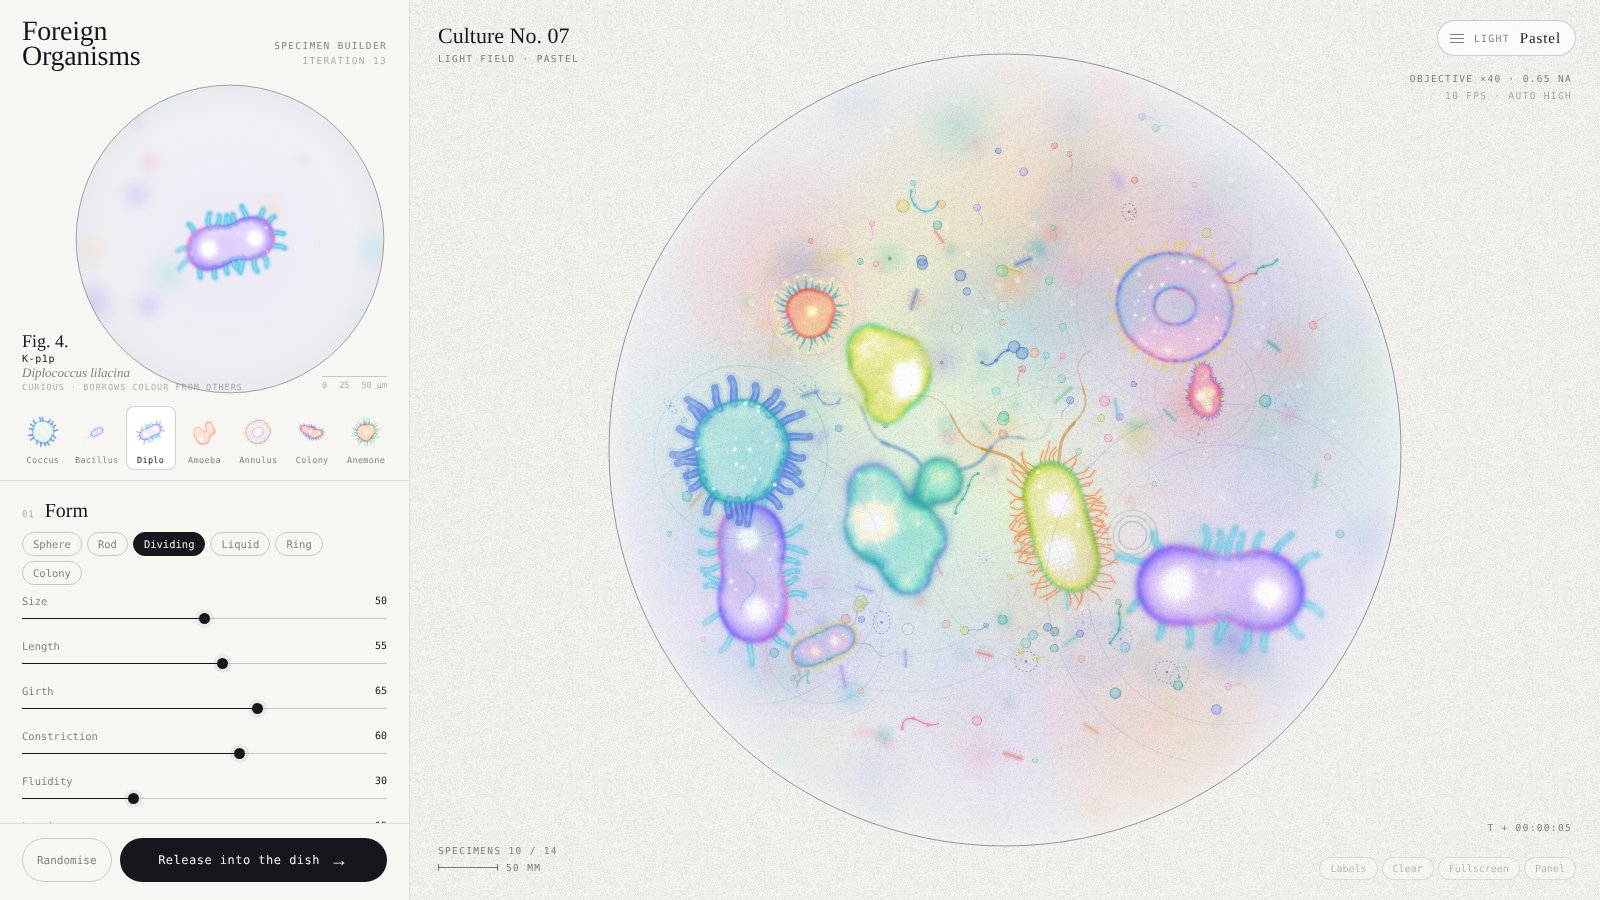
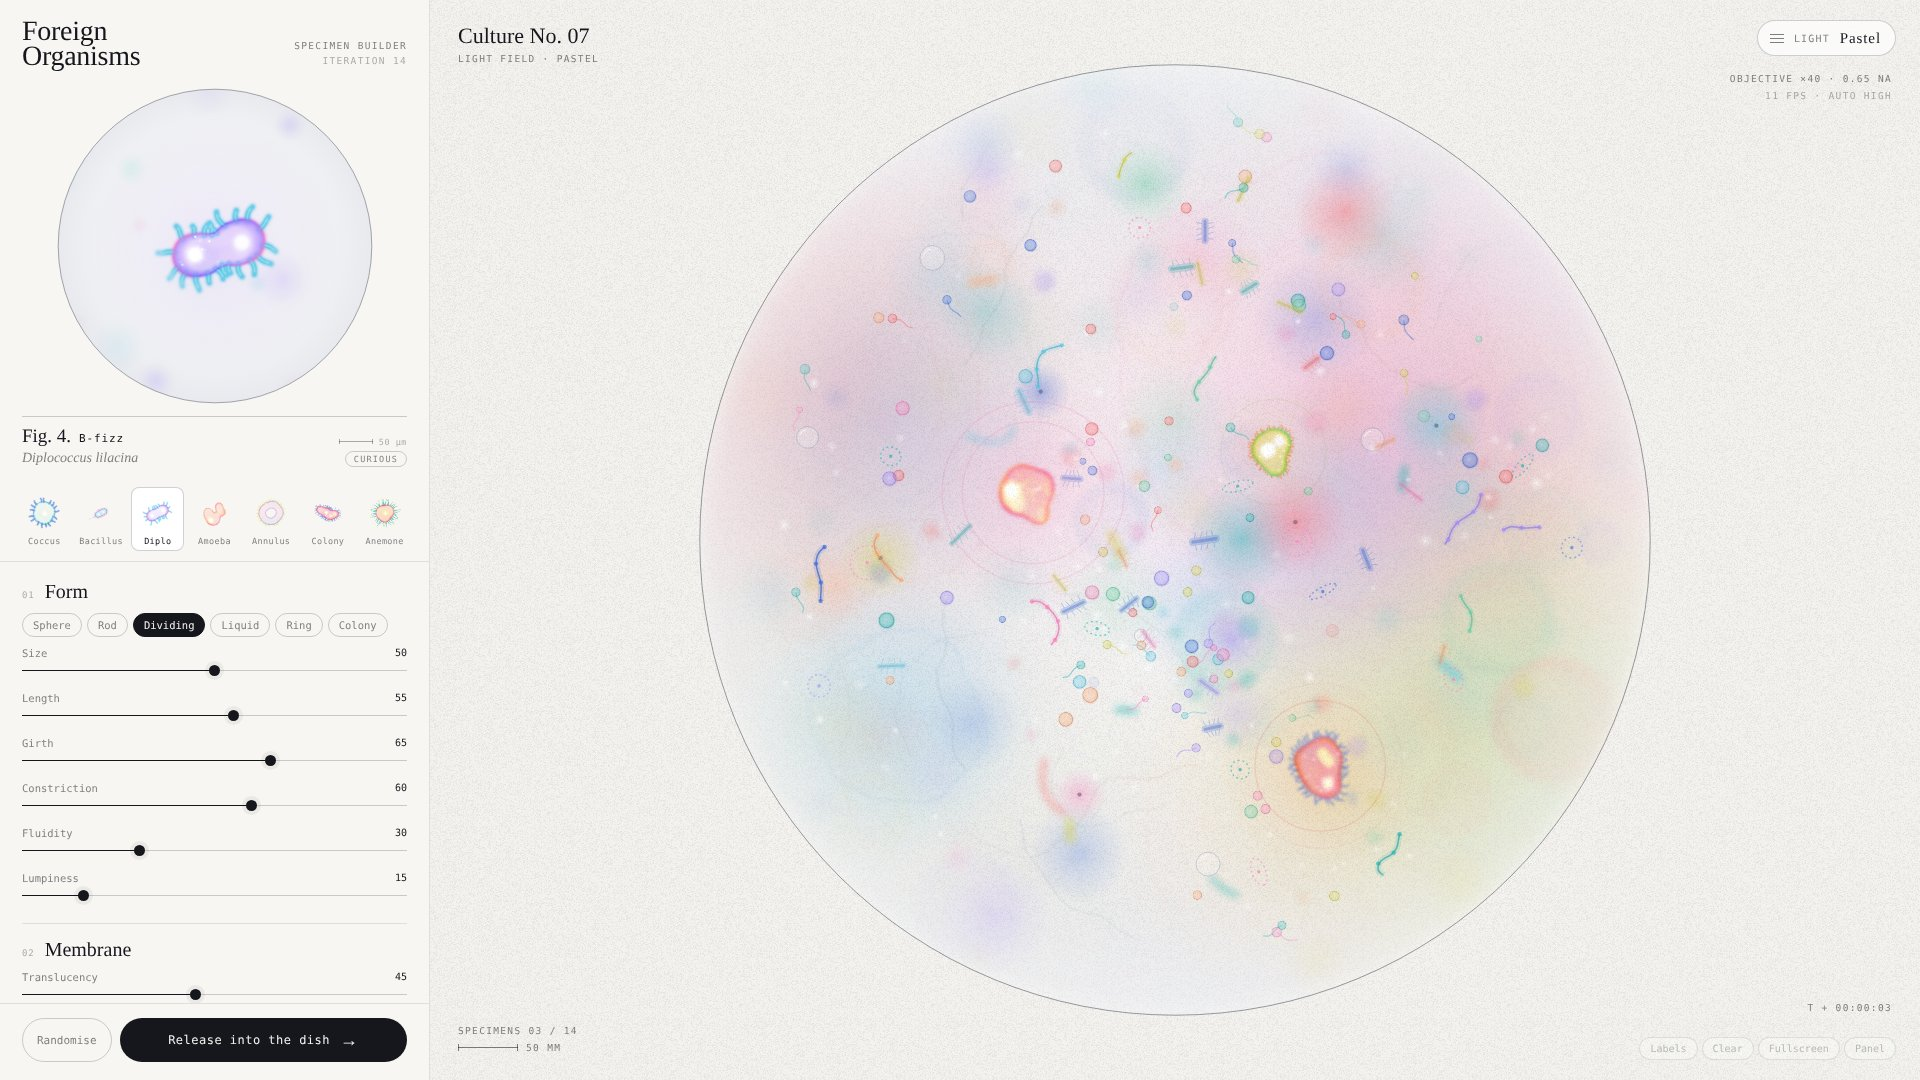
ADD

diff --git a/index.html b/index.html
@@ -19,28 +19,36 @@
   --mono: 'JetBrains Mono', ui-monospace, 'Consolas', monospace;
 }
 * { box-sizing: border-box; }
-html, body { margin: 0; height: 100%; background: var(--paper); color: var(--ink); font-family: var(--mono); overflow: hidden; }
+html, body { margin: 0; height: 100%; -webkit-text-size-adjust: 100%; text-size-adjust: 100%; background: var(--paper); color: var(--ink); font-family: var(--mono); overflow: hidden; }
 button { font: inherit; color: inherit; cursor: pointer; }
 
-.app { display: flex; height: 100vh; width: 100vw; }
+.app { display: flex; height: 100vh; height: 100dvh; width: 100%; }
+#creator, .dish-wrap { min-width: 0; min-height: 0; }
 
 /* ---------- builder ---------- */
-#creator { width: 410px; flex: none; height: 100%; display: flex; flex-direction: column; background: var(--panel); border-right: 1px solid var(--line); transition: margin-left .5s ease; }
-body.no-panel #creator { margin-left: -410px; }
+#creator { --pw: clamp(340px, 27vw, 430px); width: var(--pw); flex: none; height: 100%; display: flex; flex-direction: column; background: var(--panel); border-right: 1px solid var(--line); transition: margin-left .5s ease; }
+body.no-panel #creator { margin-left: calc(-1 * var(--pw)); }
 .cr-head { display: flex; justify-content: space-between; align-items: flex-end; padding: 18px 22px 10px; }
 .cr-brand { font-family: var(--serif); font-size: 28px; line-height: .9; letter-spacing: -.01em; }
 .cr-meta { font-size: 9.5px; text-transform: uppercase; letter-spacing: .14em; color: var(--dim); text-align: right; line-height: 1.6; }
 .cr-meta span { color: var(--faint); }
 
-.pv { position: relative; margin: 4px 22px 0; aspect-ratio: 1 / 0.86; display: flex; align-items: center; justify-content: flex-end; }
-.pv-canvas { height: 100%; aspect-ratio: 1; display: block; }
-.pv-label { position: absolute; left: 0; bottom: 4px; display: flex; flex-direction: column; gap: 1px; font-size: 10px; pointer-events: none; }
-.pv-label b { font-family: var(--serif); font-weight: 400; font-size: 18px; }
-.pv-label span { letter-spacing: .06em; }
-.pv-label em { font-family: var(--serif); font-size: 13px; color: var(--dim); }
-.pv-label small { font-size: 8.5px; letter-spacing: .12em; text-transform: uppercase; color: var(--faint); }
-.pv-ticks { position: absolute; right: 0; bottom: 6px; display: flex; gap: 12px; font-size: 8.5px; color: var(--faint); border-top: 1px solid var(--line2); padding-top: 3px; }
-
+.pv { margin: 2px 22px 0; }
+.pv-stage { display: flex; justify-content: center; padding: 6px 0 10px; }
+.pv-canvas { display: block; flex: none; }
+/* specimen plate: a quiet two-line label under the dish, never overlapping it */
+.pv-plate { border-top: 1px solid var(--line2); padding: 8px 0 10px; display: grid; gap: 3px; min-width: 0; }
+.pv-row { display: flex; align-items: baseline; gap: 8px; min-width: 0; }
+.pv-row > * { white-space: nowrap; overflow: hidden; text-overflow: ellipsis; }
+.pv-fig { font-family: var(--serif); font-weight: 400; font-size: 19px; flex: none; }
+.pv-name { font-size: 11px; letter-spacing: .08em; flex: 1; }
+.pv-ticks { flex: none; display: flex; align-items: center; gap: 6px; font-size: 8.5px; color: var(--faint); letter-spacing: .06em; }
+.pv-ticks i { display: inline-block; width: 34px; height: 1px; background: var(--faint); position: relative; }
+.pv-ticks i::before, .pv-ticks i::after { content: ''; position: absolute; top: -2px; width: 1px; height: 5px; background: var(--faint); }
+.pv-ticks i::after { right: 0; }
+.pv-sub { justify-content: space-between; }
+.pv-latin { font-family: var(--serif); font-size: 14px; color: var(--dim); }
+.pv-temper { flex: none; font-size: 8.5px; letter-spacing: .14em; text-transform: uppercase; color: var(--dim); border: 1px solid var(--line2); border-radius: 99px; padding: 2px 8px; }
 .cr-presets { display: grid; grid-template-columns: repeat(7, 1fr); gap: 4px; padding: 10px 18px; border-bottom: 1px solid var(--line); }
 .preset { background: none; border: 1px solid transparent; border-radius: 8px; padding: 2px 0 4px; display: flex; flex-direction: column; align-items: center; transition: border-color .2s, background .2s; }
 .preset canvas { width: 46px; height: 46px; }
@@ -49,7 +57,7 @@ body.no-panel #creator { margin-left: -410px; }
 .preset.on { border-color: var(--line2); background: #fff; }
 .preset.on span { color: var(--ink); }
 
-.cr-scroll { flex: 1; overflow-y: auto; padding: 4px 22px 18px; scrollbar-width: thin; scrollbar-color: #d4d3cf transparent; }
+.cr-scroll { flex: 1; min-height: 0; overflow-y: auto; padding: 4px 22px 18px; scrollbar-width: thin; scrollbar-color: #d4d3cf transparent; }
 .cr-sec { padding: 14px 0 6px; border-bottom: 1px solid var(--line); }
 .cr-sec:last-child { border-bottom: 0; }
 .sec-h { font-family: var(--serif); font-size: 20px; margin-bottom: 10px; display: flex; align-items: baseline; gap: 10px; }
@@ -96,9 +104,9 @@ body.no-panel #creator { margin-left: -410px; }
 
 /* ---------- dish ---------- */
 .dish-wrap { position: relative; flex: 1; height: 100%; background: var(--paper); }
-#dish { position: absolute; inset: 0; }
+#dish { position: absolute; top: 0; left: 0; right: 0; bottom: 0; }
 .dish-root { overflow: hidden; }
-.dish-root > * { position: absolute; inset: 0; width: 100%; height: 100%; }
+.dish-root > * { position: absolute; top: 0; left: 0; width: 100%; height: 100%; }
 .dish-scene { }
 .dish-grain { pointer-events: none; mix-blend-mode: multiply; opacity: .55; }
 .dish-root.night .dish-grain { mix-blend-mode: normal; opacity: .4; }
@@ -130,7 +138,7 @@ body.no-panel #creator { margin-left: -410px; }
 
 .dish-tools { position: absolute; right: 24px; bottom: 20px; display: flex; gap: 4px; opacity: .5; transition: opacity .3s; }
 .dish-tools:hover { opacity: 1; }
-.dish-tools button { background: rgba(255,255,255,.6); border: 1px solid var(--line2); border-radius: 99px; padding: 5px 10px; font-size: 10px; color: var(--dim); backdrop-filter: blur(6px); }
+.dish-tools button { background: rgba(255,255,255,.6); border: 1px solid var(--line2); border-radius: 99px; padding: 5px 10px; font-size: 10px; color: var(--dim); -webkit-backdrop-filter: blur(6px); backdrop-filter: blur(6px); }
 .dish-tools button:hover { color: var(--ink); }
 
 .fly { position: fixed; z-index: 50; pointer-events: none; transform-origin: 50% 50%; will-change: transform, opacity; }
@@ -138,7 +146,7 @@ body.no-panel #creator { margin-left: -410px; }
 
 /* light menu */
 .light-menu { position: absolute; right: 24px; top: 20px; z-index: 5; }
-.lm-btn { display: flex; align-items: center; gap: 10px; height: 36px; padding: 0 14px 0 12px; border-radius: 99px; border: 1px solid var(--line2); background: rgba(255,255,255,.7); backdrop-filter: blur(8px); font-size: 10px; letter-spacing: .12em; text-transform: uppercase; color: var(--dim); transition: border-color .2s, color .2s; }
+.lm-btn { display: flex; align-items: center; gap: 10px; height: 36px; padding: 0 14px 0 12px; border-radius: 99px; border: 1px solid var(--line2); background: rgba(255,255,255,.7); -webkit-backdrop-filter: blur(8px); backdrop-filter: blur(8px); font-size: 10px; letter-spacing: .12em; text-transform: uppercase; color: var(--dim); transition: border-color .2s, color .2s; }
 .lm-btn:hover, .light-menu.open .lm-btn { color: var(--ink); border-color: rgba(0,0,0,.4); }
 .lm-burger { display: grid; gap: 3px; width: 14px; }
 .lm-burger i { display: block; height: 1px; background: currentColor; transition: transform .3s, opacity .3s; }
@@ -146,7 +154,7 @@ body.no-panel #creator { margin-left: -410px; }
 .light-menu.open .lm-burger i:nth-child(2) { opacity: 0; }
 .light-menu.open .lm-burger i:nth-child(3) { transform: translateY(-4px) rotate(-45deg); }
 .lm-cur { color: var(--ink); letter-spacing: .06em; text-transform: none; font-family: var(--serif); font-size: 15px; }
-.lm-list { position: absolute; right: 0; top: 44px; width: 280px; padding: 6px; border-radius: 16px; background: rgba(250,249,246,.92); backdrop-filter: blur(14px); border: 1px solid var(--line); box-shadow: 0 18px 40px rgba(20,24,34,.12); opacity: 0; transform: translateY(-6px); pointer-events: none; transition: opacity .2s, transform .2s; }
+.lm-list { position: absolute; right: 0; top: 44px; width: 280px; padding: 6px; border-radius: 16px; background: rgba(250,249,246,.92); -webkit-backdrop-filter: blur(14px); backdrop-filter: blur(14px); border: 1px solid var(--line); box-shadow: 0 18px 40px rgba(20,24,34,.12); opacity: 0; transform: translateY(-6px); pointer-events: none; transition: opacity .2s, transform .2s; }
 .light-menu.open .lm-list { opacity: 1; transform: none; pointer-events: auto; }
 .lm-item { display: flex; align-items: center; gap: 12px; width: 100%; padding: 9px 10px; border: 0; border-radius: 11px; background: none; text-align: left; }
 .lm-item:hover { background: rgba(0,0,0,.04); }
@@ -155,6 +163,48 @@ body.no-panel #creator { margin-left: -410px; }
 .lm-t { display: flex; flex-direction: column; gap: 1px; }
 .lm-t b { font-family: var(--serif); font-weight: 400; font-size: 17px; color: var(--ink); }
 .lm-t small { font-size: 9.5px; color: var(--dim); letter-spacing: .02em; }
+
+/* short desktop windows: tighten vertical rhythm */
+@media (max-height: 760px) and (min-width: 861px) {
+  .cr-head { padding: 12px 22px 6px; }
+  .cr-brand { font-size: 24px; }
+  .pv-stage { padding: 2px 0 6px; }
+  .preset canvas { width: 38px; height: 38px; }
+  .cr-presets { padding: 6px 18px; }
+  .cr-foot { padding: 10px 22px 12px; }
+  .btn-send { height: 40px; }
+}
+
+/* tablets / narrow windows: the dish leads on top, the builder sits below as a sheet */
+@media (max-width: 860px) {
+  .app { flex-direction: column; }
+  .dish-wrap { order: 1; flex: 1 1 56%; height: auto; min-height: 0; }
+  #creator { order: 2; width: 100%; height: 44%; flex: none; border-right: 0; border-top: 1px solid var(--line); transition: none; }
+  body.no-panel #creator { display: none; }
+  .cr-head { display: none; }
+  .pv { display: flex; align-items: center; gap: 16px; margin: 0 18px; padding: 10px 0 6px; }
+  .pv-stage { padding: 0; }
+  .pv-plate { flex: 1; border-top: 0; padding: 0; }
+  .pv-fig { font-size: 22px; }
+  .cr-presets { display: flex; overflow-x: auto; gap: 2px; padding: 6px 14px; scrollbar-width: none; }
+  .cr-presets::-webkit-scrollbar { display: none; }
+  .preset { flex: 0 0 62px; }
+  .preset canvas { width: 40px; height: 40px; }
+  .cr-scroll { padding: 0 18px 12px; }
+  .cr-foot { padding: 10px 18px 12px; }
+  .btn-send { height: 40px; }
+  .hud-tr, .hud-br { display: none; }
+  .hud-tl { left: 18px; top: 14px; } .hud-bl { left: 18px; bottom: 14px; }
+  .hud-title { font-size: 18px; }
+  .light-menu { right: 14px; top: 12px; }
+  .dish-tools { right: 14px; bottom: 12px; }
+  .dish-tools button[data-act="full"] { display: none; }
+}
+@media (max-width: 520px) {
+  .lm-k { display: none; }
+  .lm-list { width: min(280px, calc(100vw - 28px)); }
+  .chips.with-desc { grid-template-columns: 1fr; }
+}
 
 </style>
 </head>
@@ -1816,12 +1866,14 @@ body.no-panel #creator { margin-left: -410px; }
       r.innerHTML = `
         <header class="cr-head">
           <div class="cr-brand">Foreign<br>Organisms</div>
-          <div class="cr-meta">Specimen builder<br><span>Iteration 13</span></div>
+          <div class="cr-meta">Specimen builder<br><span>Iteration 14</span></div>
         </header>
         <div class="pv">
-          <canvas class="pv-canvas"></canvas>
-          <div class="pv-label"><b class="pv-fig">Fig. —</b><span class="pv-name"></span><em class="pv-latin"></em><small class="pv-temper"></small></div>
-          <div class="pv-ticks"><span>0</span><span>25</span><span>50 µm</span></div>
+          <div class="pv-stage"><canvas class="pv-canvas"></canvas></div>
+          <div class="pv-plate">
+            <div class="pv-row"><b class="pv-fig">Fig. —</b><span class="pv-name"></span><span class="pv-ticks"><i></i>50 µm</span></div>
+            <div class="pv-row pv-sub"><em class="pv-latin"></em><small class="pv-temper"></small></div>
+          </div>
         </div>
         <div class="cr-presets"></div>
         <div class="cr-scroll"><div class="cr-sections"></div>
@@ -1934,7 +1986,7 @@ body.no-panel #creator { margin-left: -410px; }
       r.querySelector('.pv-fig').textContent = `Fig. ${this.opts.nextFig ? this.opts.nextFig() : '—'}.`;
       r.querySelector('.pv-name').textContent = this.g.name || '—';
       r.querySelector('.pv-latin').textContent = P.latinName(this.g);
-      const tp = P.TEMPERS.find((q) => q.id === this.g.temperament); r.querySelector('.pv-temper').textContent = tp ? tp.name + ' · ' + tp.desc : '';
+      const tp = P.TEMPERS.find((q) => q.id === this.g.temperament); const te = r.querySelector('.pv-temper'); te.textContent = tp ? tp.name : ''; te.title = tp ? tp.desc : '';
     }
 
     send() {
@@ -1961,14 +2013,26 @@ body.no-panel #creator { margin-left: -410px; }
       this.m = new P.Microbe(g, { res: 128 });
       this.t = 0; this.alpha = 1; this.scale = 1; this.hidden = false;
       this.bokeh = []; for (let i = 0; i < 18; i++) this.bokeh.push({ x: Math.random() * 2 - 1, y: Math.random() * 2 - 1, r: P.rand(0.02, 0.09), col: P.pick(['#58cbe6', '#ff86c2', '#a58cff', '#ffcf98', '#86e2cc']), ph: Math.random() * TAU });
-      new ResizeObserver(() => this.resize()).observe(canvas);
+      this.box = canvas.closest('.pv') || canvas.parentNode;
+      new ResizeObserver(() => this.resize()).observe(this.box);
+      window.addEventListener('resize', () => this.resize());
       this.resize();
       this.last = performance.now();
       requestAnimationFrame((n) => this.loop(n));
     }
+    /* explicit pixel size from the panel width (and window height): never depends on the canvas itself,
+       so no browser can get into a grow-the-canvas feedback loop */
     resize() {
-      const r = this.c.getBoundingClientRect(), dpr = Math.min(window.devicePixelRatio || 1, 2);
-      this.dpr = dpr; this.S = Math.max(10, Math.round(Math.min(r.width, r.height) * dpr));
+      const w = this.box.clientWidth || 300, dpr = Math.min(window.devicePixelRatio || 1, 2);
+      const panelH = (this.c.closest('#creator') || document.body).clientHeight || window.innerHeight;
+      const compact = window.matchMedia('(max-width: 860px)').matches;
+      const css = Math.round(compact
+        ? Math.max(96, Math.min(panelH * 0.3, w * 0.34, 200))                       // side-by-side with the plate
+        : Math.max(150, Math.min(w * 0.86, 320, panelH * 0.36)));                   // centred plate below
+      if (css === this.css && dpr === this.dpr) return;
+      this.css = css; this.dpr = dpr;
+      this.c.style.width = css + 'px'; this.c.style.height = css + 'px';
+      this.S = Math.round(css * dpr);
       this.c.width = this.c.height = this.S;
     }
     setGenome(g, anim) { this.m.setGenome(g); if (anim) { this.pop = 0; } }
